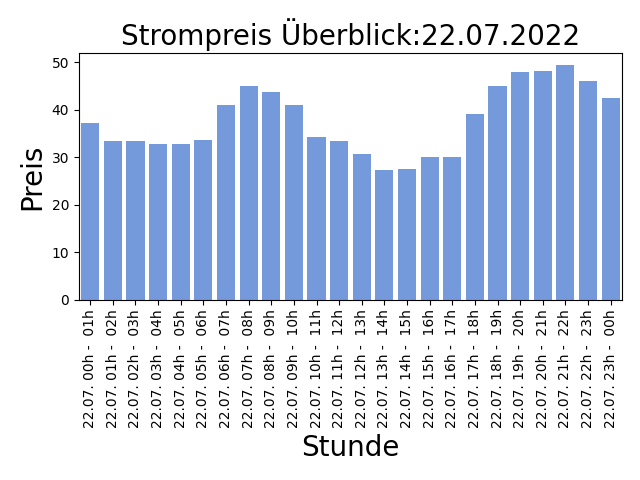
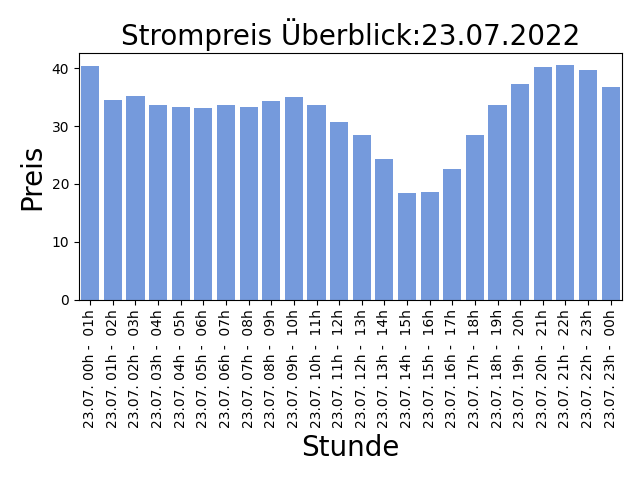
AUTOMATIC UPDATE PRICE LIST: 2022-07-22-14:30:06

diff --git a/README.md b/README.md
@@ -1,5 +1,5 @@
 
-## Strompreise für den 22.07.2022
+## Strompreise für den 23.07.2022
 
 Niedrige Preise deuten auf viel Sonnen und Windenergieerzeugung hin, ein hoher Anteil an erneuerbaren Energien bedeuted weniger CO2 Verbrauch!
 
@@ -7,31 +7,31 @@ Niedrige Preise deuten auf viel Sonnen und Windenergieerzeugung hin, ein hoher A
 
 | Stunde | Preis in Cent/kWh |
 |---|---|
-| 22.07. 00h -  01h | 37.269 | 
-| 22.07. 01h -  02h | 33.410000000000004 | 
-| 22.07. 02h -  03h | 33.341 | 
-| 22.07. 03h -  04h | 32.735 | 
-| 22.07. 04h -  05h | 32.825 | 
-| 22.07. 05h -  06h | 33.695 | 
-| 22.07. 06h -  07h | 40.988 | 
-| 22.07. 07h -  08h | 45.089999999999996 | 
-| 22.07. 08h -  09h | 43.692 | 
-| 22.07. 09h -  10h | 40.94 | 
-| 22.07. 10h -  11h | 34.265 | 
-| 22.07. 11h -  12h | 33.403 | 
-| 22.07. 12h -  13h | 30.756 | 
-| **22.07. 13h -  14h** | **27.404000000000003** | 
-| 22.07. 14h -  15h | 27.557 | 
-| 22.07. 15h -  16h | 30.099 | 
-| 22.07. 16h -  17h | 30.108999999999998 | 
-| 22.07. 17h -  18h | 39.104 | 
-| 22.07. 18h -  19h | 45.056 | 
-| 22.07. 19h -  20h | 47.999 | 
-| 22.07. 20h -  21h | 48.089999999999996 | 
-| 22.07. 21h -  22h | 49.46 | 
-| 22.07. 22h -  23h | 46.104 | 
-| 22.07. 23h -  00h | 42.492000000000004 | 
+| 23.07. 00h -  01h | 40.456 | 
+| 23.07. 01h -  02h | 34.467 | 
+| 23.07. 02h -  03h | 35.199 | 
+| 23.07. 03h -  04h | 33.701 | 
+| 23.07. 04h -  05h | 33.204 | 
+| 23.07. 05h -  06h | 33.126999999999995 | 
+| 23.07. 06h -  07h | 33.702999999999996 | 
+| 23.07. 07h -  08h | 33.312 | 
+| 23.07. 08h -  09h | 34.378 | 
+| 23.07. 09h -  10h | 35.096 | 
+| 23.07. 10h -  11h | 33.702 | 
+| 23.07. 11h -  12h | 30.736 | 
+| 23.07. 12h -  13h | 28.506 | 
+| 23.07. 13h -  14h | 24.273 | 
+| **23.07. 14h -  15h** | **18.397** | 
+| 23.07. 15h -  16h | 18.544999999999998 | 
+| 23.07. 16h -  17h | 22.644 | 
+| 23.07. 17h -  18h | 28.502999999999997 | 
+| 23.07. 18h -  19h | 33.602 | 
+| 23.07. 19h -  20h | 37.287 | 
+| 23.07. 20h -  21h | 40.214999999999996 | 
+| 23.07. 21h -  22h | 40.561 | 
+| 23.07. 22h -  23h | 39.69 | 
+| 23.07. 23h -  00h | 36.661 | 
 
 Preise der EPEX Spot ® Strombörse (neue Preise werden täglich um 14:00 veröffentlicht für den kompletten nächsten Tag).
 
-letzte Aktualisierung:21.07.2022 14:30
+letzte Aktualisierung:22.07.2022 14:30
